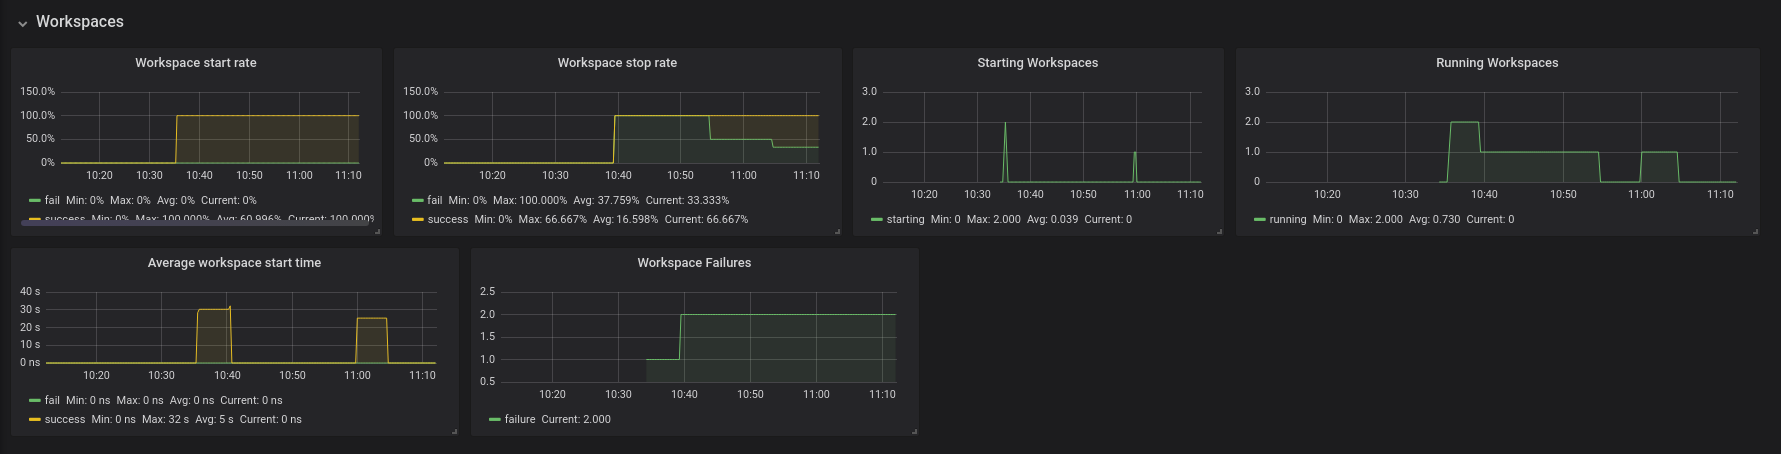
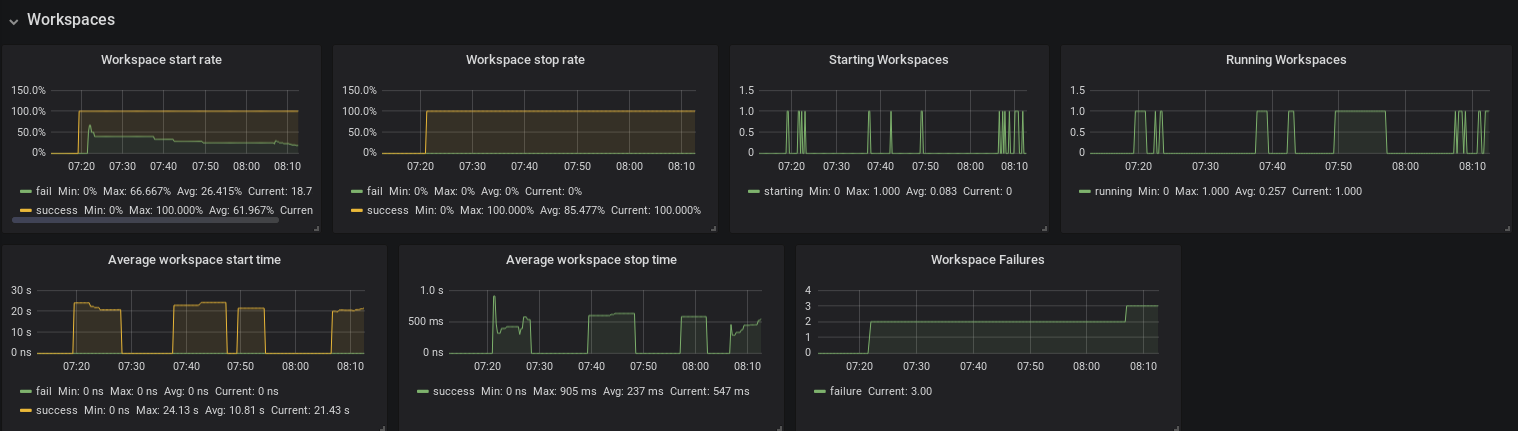
[docs] Signed-off-by: Michal Vala <mvala@redhat.com>

diff --git a/docs/che-7/monitoring-che.html b/docs/che-7/monitoring-che.html
@@ -566,6 +566,9 @@ $('#toc').on('click', 'a', function() {
 <li>
 <p><strong>Average Workspace Start Time</strong>&#8201;&#8212;&#8201;5-minute average of workspace starts or fails</p>
 </li>
+<li>
+<p><strong>Average Workspace Stop Time</strong>&#8201;&#8212;&#8201;5-minute average of workspace stops</p>
+</li>
 </ul>
 </div>
 <div class="imageblock">

diff --git a/docs/pages/che-7/administration-guide/proc_viewing-che-metrics-on-grafana-dashboards.html b/docs/pages/che-7/administration-guide/proc_viewing-che-metrics-on-grafana-dashboards.html
@@ -935,6 +935,9 @@ $('#toc').on('click', 'a', function() {
 <li>
 <p><strong>Average Workspace Start Time</strong>&#8201;&#8212;&#8201;5-minute average of workspace starts or fails</p>
 </li>
+<li>
+<p><strong>Average Workspace Stop Time</strong>&#8201;&#8212;&#8201;5-minute average of workspace stops</p>
+</li>
 </ul>
 </div>
 <div class="imageblock">
